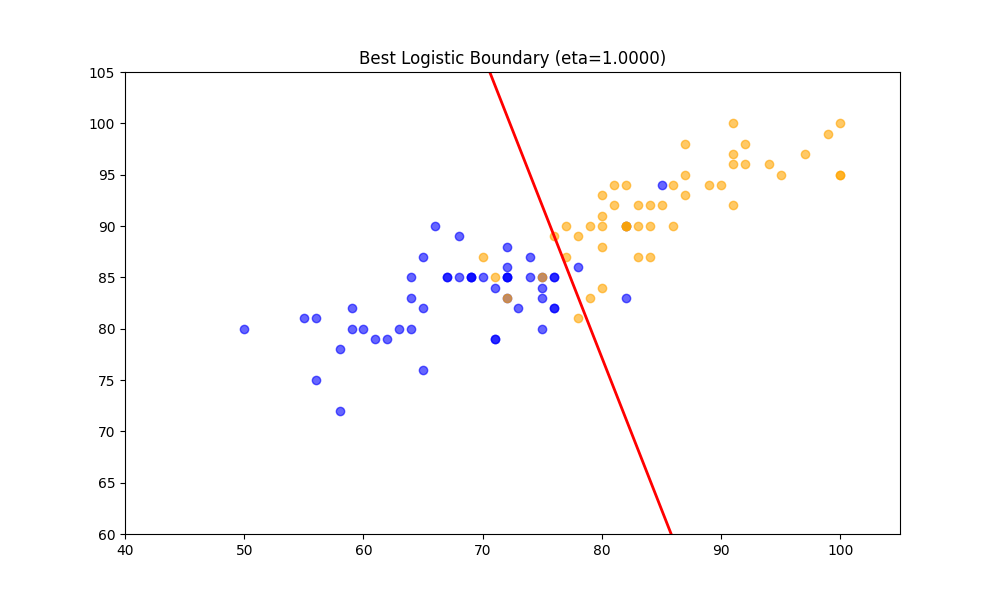
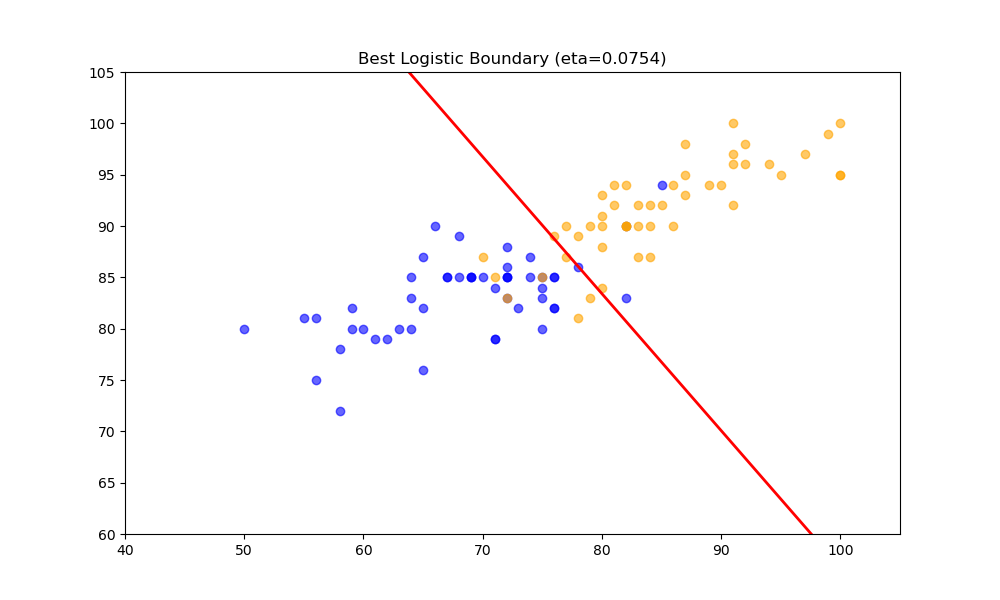
改了

diff --git a/paihw1/main.py b/paihw1/main.py
@@ -97,6 +97,7 @@ class Trainer():
 
         n = len(self.training_set)
         bs = self.training_args.batch_size
+        loss_val = float('inf')
         loss_history = []
 
         with Progress(
@@ -116,20 +117,23 @@ class Trainer():
             )
 
             for epoch in range(self.training_args.num_epochs):
-                if bs <= 1:
-                    output = self.model.forward(x_train)
-                    grad_output = self.training_args.grad_fn(output, y_train)
-                    grad_W, grad_b = self.model.backward(x_train, grad_output)
-                    self.model.W -= self.training_args.learning_rate * grad_W
-                    self.model.b -= self.training_args.learning_rate * grad_b
-                else:
-                    for i in range(0, n, bs):
-                        xb, yb = x_train[i : i + bs], y_train[i : i + bs]
-                        out = self.model.forward(xb)
-                        gw, gb = self.model.backward(xb, self.training_args.grad_fn(out, yb))
-                        
-                        self.model.W -= self.training_args.learning_rate * gw
-                        self.model.b -= self.training_args.learning_rate * gb
+                
+                indices = numpy.random.permutation(n)
+                x_train_shuffled = x_train[indices]
+                y_train_shuffled = y_train[indices]
+                for i in range(0, n, bs):
+                    xb, yb = x_train_shuffled[i : i + bs], y_train_shuffled[i : i + bs]
+                    out = self.model.forward(xb)
+                    gw, gb = self.model.backward(xb, self.training_args.grad_fn(out, yb))
+                    
+                    self.model.W -= self.training_args.learning_rate * gw
+                    self.model.b -= self.training_args.learning_rate * gb
+                    if numpy.isnan(self.model.W).any() or numpy.isinf(self.model.W).any():
+                        return {
+                            'best_val_loss': 1e10, # 回傳一個很大的數值代表失敗
+                            'stopped_epoch': epoch + 1,
+                            'loss_history': loss_history
+                        }
 
                 current_full_output = self.model.forward(x_train)
                 current_loss = self.training_args.loss_fn(current_full_output, y_train)
@@ -279,9 +283,9 @@ def p2(seed: int = 42, isPlot=True, lr=0.75, epochs=1000, early_stop=False, pati
     }
 
 def p3(seed: int = 42):
-    grid_size = 100
-    etas = numpy.logspace(-4, 0, grid_size)
-    max_T = 5000
+    grid_size = 50
+    etas = numpy.logspace(-4, -1, grid_size)
+    max_T = 1000
     patience = 20
     results = []
 
@@ -290,7 +294,8 @@ def p3(seed: int = 42):
     
     
     for eta in etas:
-        metrics = p1(seed=seed, isPlot=False, lr=eta, epochs=max_T, early_stop=True, patience=patience)
+        p1_results = p1(seed=seed, isPlot=False, lr=eta, epochs=max_T, early_stop=True, patience=patience)
+        metrics = p1_results['metrics']
         final_mse_scaled = metrics['best_val_loss'] * 10000
         stopped_epoch = metrics['stopped_epoch']
         results.append({
@@ -304,7 +309,10 @@ def p3(seed: int = 42):
         console.print(f"η={eta:.6f} | MSE: {final_mse_scaled:.2f} | 於 Epoch {stopped_epoch} 停止")
 
     df_results = pandas.DataFrame(results)
-
+    plot_df = df_results[df_results['mse'] < 1e10].copy()
+    if plot_df.empty:
+        console.print("[bold red]所有學習率都爆炸了！請調低 etas 的上限。[/bold red]")
+        return
     csv_filename = "grid_search_1d_linear.csv"
     df_results.to_csv(csv_filename, index=False)
     console.print(f"[green]數據已儲存至 {csv_filename}[/green]")
@@ -348,8 +356,8 @@ def p3(seed: int = 42):
 
 
 def p4(seed: int = 42):
-    etas = numpy.logspace(-4, 0, 100)
-    max_T = 5000
+    etas = numpy.logspace(-4, -1, 50)
+    max_T = 1000
     patience = 30
     results = []
     best_loss = float('inf')
@@ -405,7 +413,7 @@ def p4(seed: int = 42):
 
 def p5(seed: int = 42):
     fixed_eta = 0.75
-    max_epochs = 5000
+    max_epochs = 1000
     
     full_bs = 400 
     batch_sizes = [1, 8, 32, 128, full_bs]
